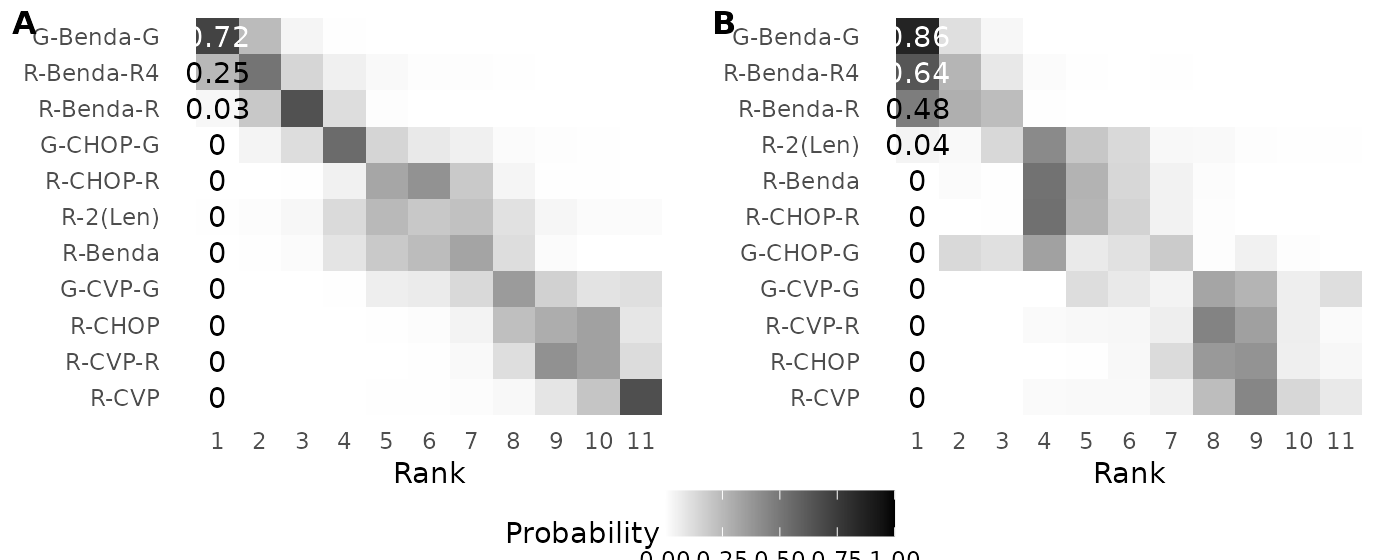
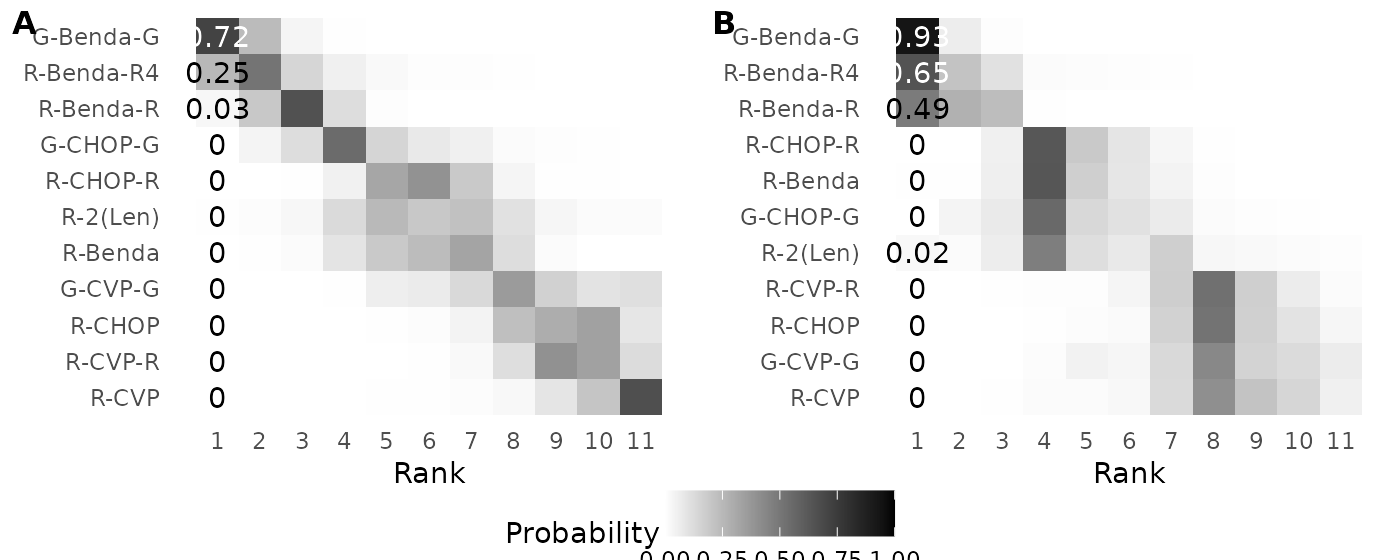
Deploying to gh-pages from @ pearce790/RaCE.NMA@491013f5ef79908cfbcbbcd21a272d1d09ab8bd3 🚀

diff --git a/articles/reproducibility.html b/articles/reproducibility.html
@@ -136,7 +136,7 @@ simulation study. Second, we create the figure.</p>
 <span>        <span class="op">}</span></span>
 <span>        </span>
 <span>        <span class="va">mcmc</span> <span class="op">&lt;-</span> <span class="fu"><a href="../reference/mcmc_RCMVN.html">mcmc_RCMVN</a></span><span class="op">(</span>ybar<span class="op">=</span><span class="va">ybar</span>,s<span class="op">=</span><span class="fu"><a href="https://rdrr.io/r/base/rep.html" class="external-link">rep</a></span><span class="op">(</span><span class="va">s</span>,<span class="va">J</span><span class="op">)</span>,mu<span class="op">=</span><span class="fu"><a href="https://rdrr.io/r/base/mean.html" class="external-link">mean</a></span><span class="op">(</span><span class="va">ybar</span><span class="op">)</span>,sigma0<span class="op">=</span><span class="fu"><a href="https://rdrr.io/r/base/Extremes.html" class="external-link">max</a></span><span class="op">(</span><span class="fl">1</span>,<span class="fl">4</span><span class="op">*</span><span class="fu"><a href="https://rdrr.io/r/stats/sd.html" class="external-link">sd</a></span><span class="op">(</span><span class="va">ybar</span><span class="op">)</span><span class="op">)</span>,nu0<span class="op">=</span><span class="va">ybar</span>,</span>
-<span>                           tau<span class="op">=</span><span class="fl">1</span>,num_iters<span class="op">=</span><span class="fl">5000</span>,nu_reps<span class="op">=</span><span class="fl">2</span>,chains<span class="op">=</span><span class="fl">4</span>,burn_prop<span class="op">=</span><span class="fl">0.5</span>,thin<span class="op">=</span><span class="fl">3</span>,suppressPrint <span class="op">=</span> <span class="cn">TRUE</span><span class="op">)</span></span>
+<span>                           tau<span class="op">=</span><span class="fl">1</span>,num_iters<span class="op">=</span><span class="fl">3000</span>,nu_reps<span class="op">=</span><span class="fl">2</span>,chains<span class="op">=</span><span class="fl">4</span>,burn_prop<span class="op">=</span><span class="fl">0.5</span>,thin<span class="op">=</span><span class="fl">3</span>,suppressPrint <span class="op">=</span> <span class="cn">TRUE</span><span class="op">)</span></span>
 <span>        </span>
 <span>        <span class="va">equal</span> <span class="op">&lt;-</span> <span class="va">posterior_equal</span> <span class="op">&lt;-</span> <span class="fu"><a href="https://rdrr.io/r/base/matrix.html" class="external-link">matrix</a></span><span class="op">(</span><span class="cn">NA</span>,nrow<span class="op">=</span><span class="va">J</span>,ncol<span class="op">=</span><span class="va">J</span><span class="op">)</span></span>
 <span>        <span class="kw">for</span><span class="op">(</span><span class="va">i</span> <span class="kw">in</span> <span class="fl">1</span><span class="op">:</span><span class="op">(</span><span class="va">J</span><span class="op">-</span><span class="fl">1</span><span class="op">)</span><span class="op">)</span><span class="op">{</span><span class="kw">for</span><span class="op">(</span><span class="va">j</span> <span class="kw">in</span> <span class="op">(</span><span class="va">i</span><span class="op">+</span><span class="fl">1</span><span class="op">)</span><span class="op">:</span><span class="va">J</span><span class="op">)</span><span class="op">{</span></span>
@@ -190,8 +190,7 @@ simulation study. Second, we create the figure.</p>
 to the simulated data. Second, we calculate and display the values in
 Table 1.</p>
 <div class="sourceCode" id="cb5"><pre class="downlit sourceCode r">
-<code class="sourceCode R"><span><span class="co"># For expediency, we set num_iters=500. To exactly reproduce values in the paper, set num_iters=50000</span></span>
-<span><span class="va">mcmc</span> <span class="op">&lt;-</span> <span class="fu"><a href="../reference/mcmc_RCMVN.html">mcmc_RCMVN</a></span><span class="op">(</span>ybar<span class="op">=</span><span class="va">ybar</span>,s<span class="op">=</span><span class="va">s</span>,num_iters<span class="op">=</span><span class="fl">500</span>,nu_reps<span class="op">=</span><span class="fl">2</span>,chains<span class="op">=</span><span class="fl">4</span>,burn_prop<span class="op">=</span><span class="fl">0.5</span>,thin<span class="op">=</span><span class="fl">1</span>,suppressPrint <span class="op">=</span> <span class="cn">TRUE</span><span class="op">)</span></span>
+<code class="sourceCode R"><span><span class="va">mcmc</span> <span class="op">&lt;-</span> <span class="fu"><a href="../reference/mcmc_RCMVN.html">mcmc_RCMVN</a></span><span class="op">(</span>ybar<span class="op">=</span><span class="va">ybar</span>,s<span class="op">=</span><span class="va">s</span>,num_iters<span class="op">=</span><span class="fl">50000</span>,nu_reps<span class="op">=</span><span class="fl">2</span>,chains<span class="op">=</span><span class="fl">4</span>,burn_prop<span class="op">=</span><span class="fl">0.5</span>,thin<span class="op">=</span><span class="fl">1</span>,suppressPrint <span class="op">=</span> <span class="cn">TRUE</span><span class="op">)</span></span>
 <span></span>
 <span><span class="va">posterior_equal</span> <span class="op">&lt;-</span> <span class="fu"><a href="https://rdrr.io/r/base/matrix.html" class="external-link">matrix</a></span><span class="op">(</span><span class="cn">NA</span>,nrow<span class="op">=</span><span class="va">J</span>,ncol<span class="op">=</span><span class="va">J</span><span class="op">)</span></span>
 <span><span class="kw">for</span><span class="op">(</span><span class="va">i</span> <span class="kw">in</span> <span class="fl">1</span><span class="op">:</span><span class="op">(</span><span class="va">J</span><span class="op">-</span><span class="fl">1</span><span class="op">)</span><span class="op">)</span><span class="op">{</span><span class="kw">for</span><span class="op">(</span><span class="va">j</span> <span class="kw">in</span> <span class="op">(</span><span class="va">i</span><span class="op">+</span><span class="fl">1</span><span class="op">)</span><span class="op">:</span><span class="va">J</span><span class="op">)</span><span class="op">{</span></span>
@@ -199,9 +198,9 @@ Table 1.</p>
 <span><span class="op">}</span><span class="op">}</span></span>
 <span><span class="fu"><a href="https://rdrr.io/r/base/Round.html" class="external-link">round</a></span><span class="op">(</span><span class="va">posterior_equal</span>,<span class="fl">2</span><span class="op">)</span></span>
 <span><span class="co">##      [,1] [,2] [,3] [,4]</span></span>
-<span><span class="co">## [1,]   NA    0    0 0.12</span></span>
-<span><span class="co">## [2,]   NA   NA    0 0.37</span></span>
-<span><span class="co">## [3,]   NA   NA   NA 0.24</span></span>
+<span><span class="co">## [1,]   NA    0    0 0.18</span></span>
+<span><span class="co">## [2,]   NA   NA    0 0.40</span></span>
+<span><span class="co">## [3,]   NA   NA   NA 0.19</span></span>
 <span><span class="co">## [4,]   NA   NA   NA   NA</span></span></code></pre></div>
 <p>The following code reproduces Figure 4: First, we calculate the
 posterior rank-clustering probability under a traditional model (i.e.,
@@ -269,7 +268,7 @@ the mean and covariances of the relative treatment effects.</p>
 from Wang et al. (2022).</p>
 <div class="sourceCode" id="cb9"><pre class="downlit sourceCode r">
 <code class="sourceCode R"><span><span class="va">mcmc</span> <span class="op">&lt;-</span> <span class="fu"><a href="../reference/mcmc_RCMVN.html">mcmc_RCMVN</a></span><span class="op">(</span>ybar<span class="op">=</span><span class="va">ybar</span>, cov<span class="op">=</span><span class="va">cov</span>, mu0<span class="op">=</span><span class="fu"><a href="https://rdrr.io/r/base/mean.html" class="external-link">mean</a></span><span class="op">(</span><span class="va">ybar</span><span class="op">)</span>, sigma0<span class="op">=</span> <span class="fu"><a href="https://rdrr.io/r/base/MathFun.html" class="external-link">sqrt</a></span><span class="op">(</span><span class="fl">10</span><span class="op">*</span><span class="fu"><a href="https://rdrr.io/r/stats/cor.html" class="external-link">var</a></span><span class="op">(</span><span class="va">ybar</span><span class="op">)</span><span class="op">)</span>,</span>
-<span>                   num_iters<span class="op">=</span><span class="fl">500</span>,nu_reps<span class="op">=</span><span class="fl">5</span>,chains<span class="op">=</span><span class="fl">4</span>,seed<span class="op">=</span><span class="fl">1</span>,suppressPrint<span class="op">=</span><span class="cn">TRUE</span><span class="op">)</span></span></code></pre></div>
+<span>                   num_iters<span class="op">=</span><span class="fl">50000</span>,nu_reps<span class="op">=</span><span class="fl">5</span>,chains<span class="op">=</span><span class="fl">4</span>,seed<span class="op">=</span><span class="fl">1</span>,suppressPrint<span class="op">=</span><span class="cn">TRUE</span><span class="op">)</span></span></code></pre></div>
 <p>The following code chunk reproduces Figure 6, Figure 7, and Table 2:
 First, we calculate the values underpinning each graphic. Then, we
 create each in turn.</p>
@@ -334,17 +333,17 @@ create each in turn.</p>
 <span><span class="op">)</span></span>
 <span><span class="va">table2</span><span class="op">[</span><span class="fu"><a href="https://rdrr.io/r/base/order.html" class="external-link">order</a></span><span class="op">(</span><span class="va">ybar</span><span class="op">)</span>,<span class="op">]</span></span>
 <span><span class="co">##            SUCRA_Wang SUCRA_RaCE  MNBT_Wang MNBT_RaCE</span></span>
-<span><span class="co">## G-Benda-G  0.96674667    0.98302   0 (0, 1)  0 (0, 0)</span></span>
-<span><span class="co">## R-Benda-R4 0.88424167    0.95020   1 (0, 1)  0 (0, 1)</span></span>
-<span><span class="co">## R-Benda-R  0.81178500    0.92332   2 (2, 2)  1 (0, 1)</span></span>
-<span><span class="co">## G-CHOP-G   0.66349833    0.62416   3 (3, 4)  3 (3, 5)</span></span>
-<span><span class="co">## R-CHOP-R   0.51395000    0.62664   5 (4, 5)  3 (3, 4)</span></span>
-<span><span class="co">## R-2(Len)   0.50069000    0.66214   5 (4, 6)  3 (3, 4)</span></span>
-<span><span class="co">## R-Benda    0.48215000    0.63026   5 (4, 6)  3 (3, 4)</span></span>
-<span><span class="co">## G-CVP-G    0.27813667    0.28324   7 (6, 8)  7 (7, 8)</span></span>
-<span><span class="co">## R-CHOP     0.18591667    0.25988   8 (7, 9)  7 (7, 8)</span></span>
-<span><span class="co">## R-CVP-R    0.15917167    0.27416   8 (8, 9)  7 (7, 8)</span></span>
-<span><span class="co">## R-CVP      0.05371333    0.22688 10 (9, 10)  8 (7, 8)</span></span></code></pre></div>
+<span><span class="co">## G-Benda-G  0.96674667  0.9923444   0 (0, 1)  0 (0, 0)</span></span>
+<span><span class="co">## R-Benda-R4 0.88424167  0.9427304   1 (0, 1)  0 (0, 1)</span></span>
+<span><span class="co">## R-Benda-R  0.81178500  0.9245186   2 (2, 2)  1 (0, 1)</span></span>
+<span><span class="co">## G-CHOP-G   0.66349833  0.6473594   3 (3, 4)  3 (3, 4)</span></span>
+<span><span class="co">## R-CHOP-R   0.51395000  0.6574624   5 (4, 5)  3 (3, 4)</span></span>
+<span><span class="co">## R-2(Len)   0.50069000  0.6042736   5 (4, 6)  3 (3, 5)</span></span>
+<span><span class="co">## R-Benda    0.48215000  0.6565974   5 (4, 6)  3 (3, 4)</span></span>
+<span><span class="co">## G-CVP-G    0.27813667  0.2760538   7 (6, 8)  7 (7, 8)</span></span>
+<span><span class="co">## R-CHOP     0.18591667  0.2787232   8 (7, 9)  7 (7, 8)</span></span>
+<span><span class="co">## R-CVP-R    0.15917167  0.2958426   8 (8, 9)  7 (7, 7)</span></span>
+<span><span class="co">## R-CVP      0.05371333  0.2644622 10 (9, 10)  7 (7, 8)</span></span></code></pre></div>
 <p>The following code chunk reproduces the Figures 8–10 (Appendix
 B).</p>
 <div class="sourceCode" id="cb13"><pre class="downlit sourceCode r">
